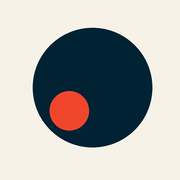
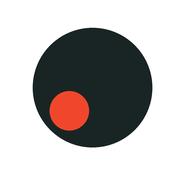
Палитра Vanilla / Raspberry / Lemon Lime / Kale / Ebony, белый фон
Claude-Session: https://claude.ai/code/session_011osDsojyUSFgdxcnJrCNCr

Changed region(s): [[0.1667, 0.1389, 0.8611, 0.8333]]

diff --git a/index.html b/index.html
@@ -3,7 +3,7 @@
 <head>
 <meta charset="utf-8">
 <meta name="viewport" content="width=device-width,initial-scale=1,viewport-fit=cover">
-<meta name="theme-color" content="#F6F2E8">
+<meta name="theme-color" content="#FFFFFF">
 <meta name="apple-mobile-web-app-capable" content="yes">
 <meta name="mobile-web-app-capable" content="yes">
 <meta name="apple-mobile-web-app-title" content="woisee">
@@ -35,9 +35,10 @@ button,.item,.row{touch-action:manipulation;-webkit-user-select:none;user-select
 /* Layout: Swiss-style single column on warm grey paper. Huge numerals as heroes, hairline rules, a stack of colored block cards, a floating black capsule for nav and for the timer.
    Deliberately one light visual world, like the references. */
 :root{
-  /* palette: Cheviot, Grape Mist, Midnight Dreams, Neptune's Wrath, Isotonic Water, Pacific Panorama + signal red */
-  --paper:#F6F2E8; --paper-2:#FDFBF6; --ink:#002233; --muted:#56687A; --rule:rgba(0,34,51,.16); --soft:#C5C0C9;
-  --signal:#F0472C; --lime:#DDFF55; --deep:#11425D; --sky:#C0D6EA;
+  /* palette: Vanilla/white, Raspberry, Lemon Lime, Kale, Ebony + signal red */
+  --paper:#FFFFFF; --paper-2:#F3F5F2; --ink:#192524; --muted:#5D6A67; --rule:rgba(25,37,36,.14); --soft:#E1E6E0;
+  --signal:#F0472C; --lime:#ECF176; --deep:#2D4540;
+  --rasp:#E780C0; --kale:#5EA879; --ebony:#192524; --vanilla:#FFFEFC;
   --f:"Inter Tight","Helvetica Neue",Helvetica,Arial,system-ui,sans-serif;
   color-scheme:light;
 }
@@ -49,9 +50,9 @@ button:focus-visible{outline:2px solid var(--signal);outline-offset:2px;border-r
 h1,h2,h3,h4{margin:0;text-wrap:balance;font-weight:800;letter-spacing:-.03em}
 p{margin:0}
 .num{font-variant-numeric:tabular-nums}
-.b-body,.b-breath,.b-phon,.b-stage{--cf:var(--ink);--cl:rgba(0,34,51,.2);--cbox:rgba(253,251,246,.6);--ca:var(--ink)}
-.b-body{--c:var(--sky);--cai:var(--sky)} .b-breath{--c:var(--soft);--cai:var(--soft)} .b-phon{--c:var(--lime);--cai:var(--lime)} .b-stage{--c:#DDD7CB;--cai:#DDD7CB}
-.b-artic{--c:var(--deep);--cf:var(--paper);--cl:rgba(246,242,232,.22);--cbox:rgba(246,242,232,.14);--ca:var(--lime);--cai:var(--deep)}
+.b-body,.b-breath,.b-phon,.b-stage{--cf:var(--ink);--cl:rgba(25,37,36,.2);--cbox:rgba(255,255,255,.55);--ca:var(--ink)}
+.b-body{--c:var(--rasp);--cai:var(--rasp)} .b-breath{--c:var(--lime);--cai:var(--lime)} .b-phon{--c:var(--kale);--cai:var(--kale);--cbox:rgba(255,255,255,.4)} .b-stage{--c:#D6DCD5;--cai:#D6DCD5}
+.b-artic{--c:var(--ebony);--cf:var(--vanilla);--cl:rgba(255,254,252,.18);--cbox:rgba(255,254,252,.12);--ca:var(--lime);--cai:var(--ebony)}
 
 .app{max-width:520px;margin:0 auto;padding-left:max(18px,env(safe-area-inset-left,0px));padding-right:max(18px,env(safe-area-inset-right,0px));padding-block:18px calc(110px + env(safe-area-inset-bottom,0px));display:flex;flex-direction:column;gap:26px}
 .top{display:flex;justify-content:space-between;align-items:center;gap:12px}
@@ -94,7 +95,7 @@ p{margin:0}
 
 /* stack of block cards */
 .stack{display:flex;flex-direction:column}
-.blk{background:var(--c);color:var(--cf);border-radius:30px;padding:20px 20px 46px;margin-top:-28px;box-shadow:0 -1px 0 rgba(0,34,51,.08)}
+.blk{background:var(--c);color:var(--cf);border-radius:30px;padding:20px 20px 46px;margin-top:-28px;box-shadow:0 -1px 0 rgba(25,37,36,.08)}
 .blk:first-child{margin-top:0}
 .blk:last-child{padding-bottom:20px}
 .blk header{display:grid;grid-template-columns:1fr auto;align-items:start;gap:12px}
@@ -244,7 +245,7 @@ p{margin:0}
 .cap .acts{display:flex;align-items:center;gap:8px}
 .go{width:68px;height:68px;border-radius:50%;background:var(--signal);color:var(--ink);font-weight:700;font-size:14px;display:flex;align-items:center;justify-content:center;text-align:center;line-height:1.05}
 .go.alt{background:var(--paper-2)}
-.chip{border:1px solid rgba(246,242,232,.35);border-radius:99px;padding:8px 12px;font-size:13px;font-weight:600;color:var(--paper-2)}
+.chip{border:1px solid rgba(255,254,252,.35);border-radius:99px;padding:8px 12px;font-size:13px;font-weight:600;color:var(--paper-2)}
 .cap.fin{background:var(--lime);color:var(--ink)}
 .cap.fin .fill{display:none}
 .cap.fin .time span{opacity:.7}
@@ -659,7 +660,7 @@ function widget(e){
       return `<div class="swatch" id="focusW"><div class="snds">${Object.keys(SOUNDS).map(s=>`<button class="snd" data-act="snd" data-v="${s}" aria-pressed="${ex.sw.sound===s}"><b>${SOUNDS[s]}</b><span class="num" id="best-${s}">${b[s]?'рекорд '+Math.round(b[s]):'нет замера'}</span></button>`).join('')}</div>
       <div class="sw-line"><div><div class="sw-num" id="swNum">0.0</div><span class="note" id="swLbl">секунд на [${SOUNDS[ex.sw.sound]}]</span></div><button class="sw-btn" data-act="sw" id="swBtn">Старт<br>выдоха</button></div>
       <p class="rec" id="swRec" hidden></p></div>`;}
-    case 'breath':return `<div class="pacer" id="focusW"><div class="wrap"><svg viewBox="0 0 200 200"><circle cx="100" cy="100" r="88" fill="none" stroke="rgba(0,34,51,.4)" stroke-width="1.5" stroke-dasharray="3 6"/><circle id="pcC" cx="100" cy="100" r="40" fill="var(--ink)"/></svg><div class="lbl"><b id="pcLbl">Готовы?</b><span id="pcNum"></span></div></div><p>Вдох 4 · задержка 4 · выдох 8 · задержка 4</p></div>`;
+    case 'breath':return `<div class="pacer" id="focusW"><div class="wrap"><svg viewBox="0 0 200 200"><circle cx="100" cy="100" r="88" fill="none" stroke="rgba(25,37,36,.4)" stroke-width="1.5" stroke-dasharray="3 6"/><circle id="pcC" cx="100" cy="100" r="40" fill="var(--ink)"/></svg><div class="lbl"><b id="pcLbl">Готовы?</b><span id="pcNum"></span></div></div><p>Вдох 4 · задержка 4 · выдох 8 · задержка 4</p></div>`;
     case 'intervals':return `<div class="phase" id="focusW"><div><b id="phLbl">Дышите</b><p class="note" style="color:var(--ink);margin-top:6px">30 работа · 15 отдых · 30 работа</p></div><span id="phNum">0:30</span></div>`;
     case 'twister':return `<div class="read" id="twText">${esc(TWISTERS[ex.tw])}</div><button class="ghost" data-act="tw">Другая скороговорка</button>`;
     case 'phrase':return `<div class="read" id="phText" style="text-align:center">${esc(PHRASES[ex.ph])}</div><ul class="listrows">${MOODS.map(m=>`<li><span>${m[0]}</span><span class="a">${m[1]}</span></li>`).join('')}</ul><button class="ghost" data-act="ph">Другая фраза</button>`;

diff --git a/sw.js b/sw.js
@@ -1,5 +1,5 @@
 // woisee offline cache. Bump VERSION after changing any file so phones pick up the update.
-const VERSION = 'woisee-v2';
+const VERSION = 'woisee-v3';
 const FILES = [
   './',
   './index.html',
